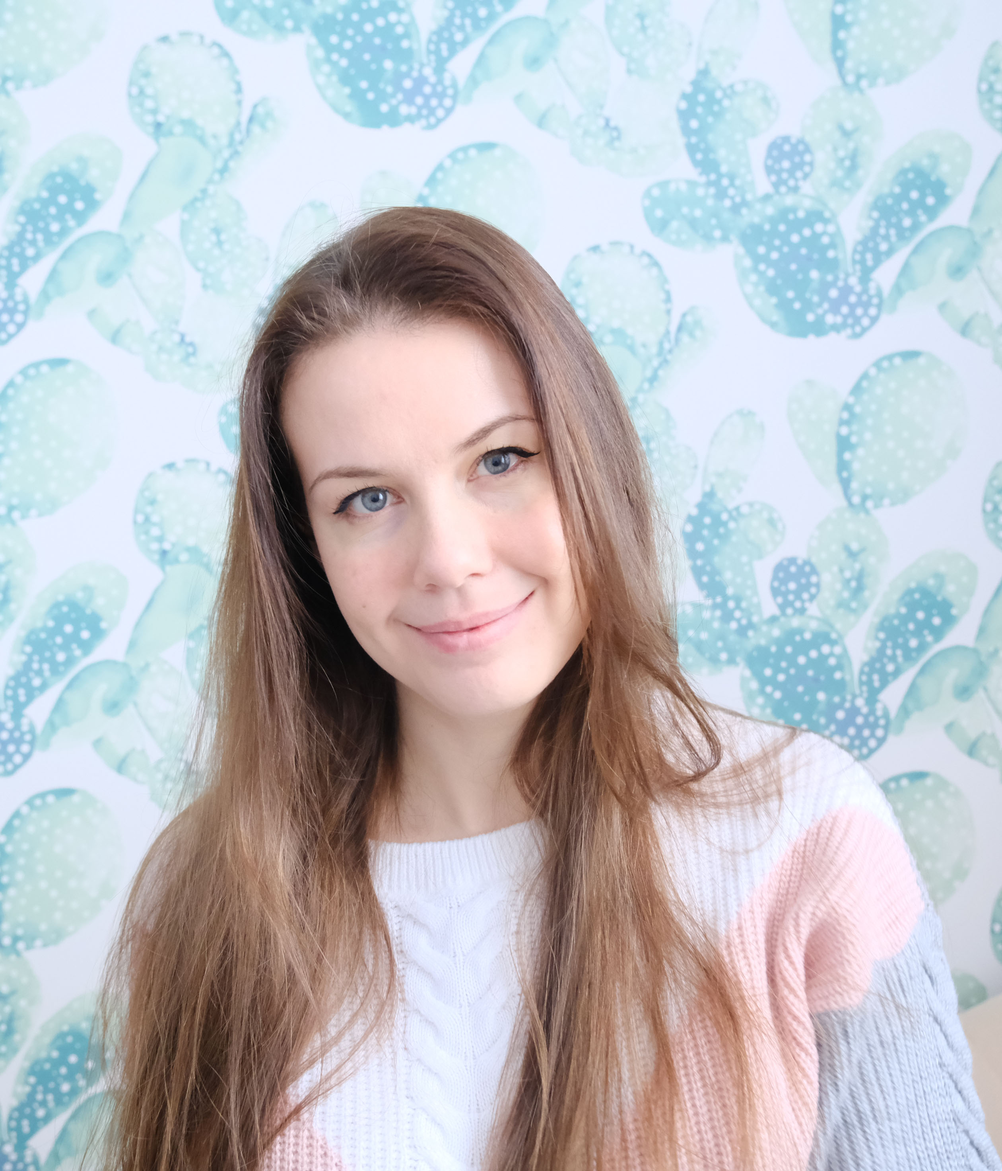
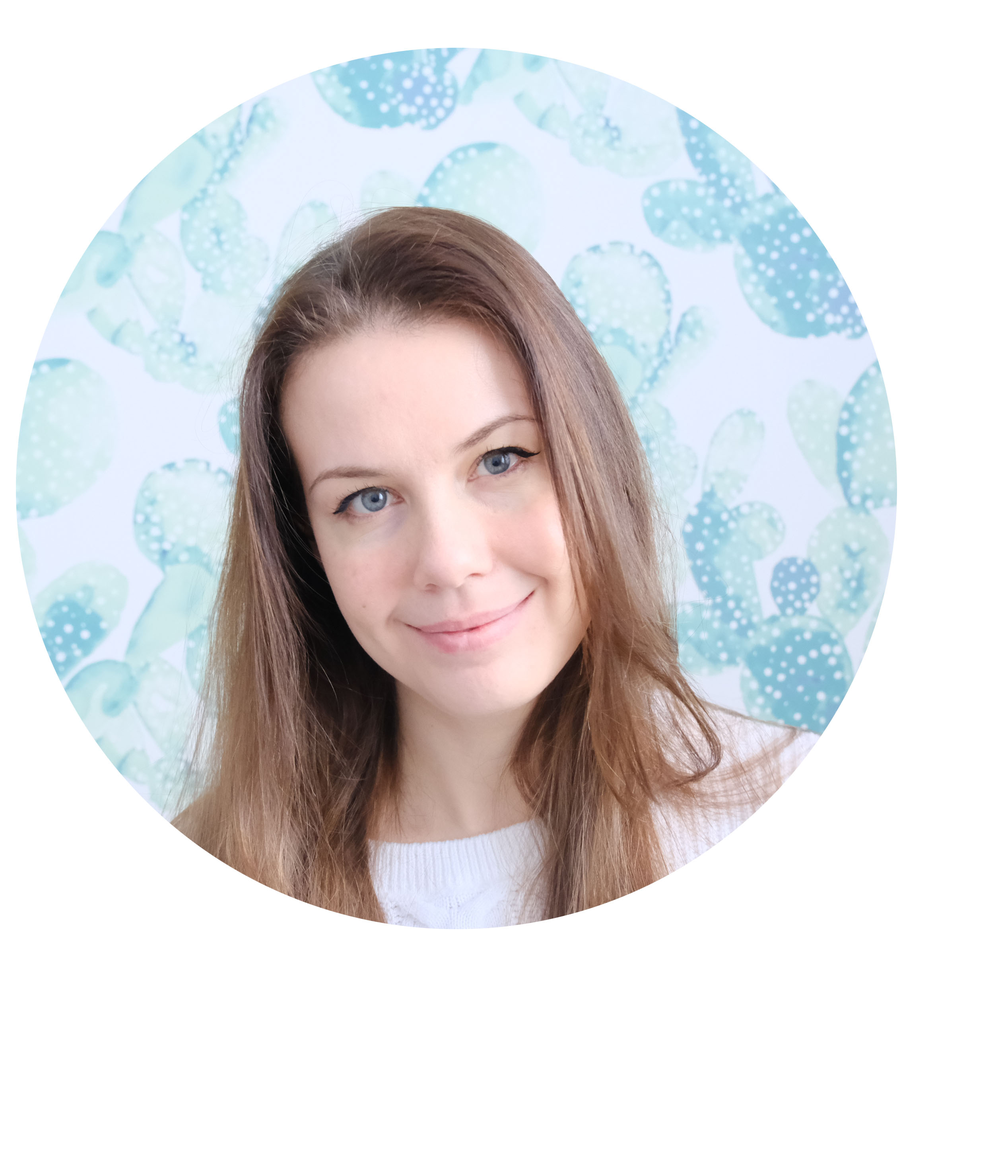
feat: add main information

diff --git a/index.html b/index.html
@@ -24,46 +24,91 @@
                   <li class="nav-item"><a href="#languages" class="nav-link">Languages</a></li>
                 </ul>
               </nav>
-            <img src="DSCF1903_c.jpg" alt="my_photo" width="200">
+            
         </div>
     </header>
 
-    <main class="main main-container">
-        <div class="container">
-            <section class="section" id="profile">
+    <main class="main">
+        <div class="container main-container">
+            <section class="section profile-section" id="profile">
                 <h1 class="section-title main-title">
                     Kate Lishynskaya
                 </h1>
             </section>
+            <section class="section photo" id="photo">
+                <img src="DSCF1903_c.jpg" alt="my_photo" width="200">
+            </section>
             <section class="section" id="contacts">
                 <h2 class="section-title">Contacts</h2>
+                <ul class="contact-list">
+                    <li class="contact-item">Minsk, Belarus (ready to relocate)</li>
+                    <li class="contact-item">Email: <a href="tekalishoo@gmail.com">tekalishoo@gmail.com</a></li>
+                    <li class="contact-item">LinkedIn: <a href="https://www.linkedin.com/in/ekaterina-lishynskaya-852376231/">Ekaterina Lishynskaya</a></li>
+                    <li class="contact-item">GitHub: <a href="https://github.com/TekaLishoo">TekaLishoo</a></li>
+                </ul>
             </section>
             <section class="section" id="summary">
                 <h2 class="section-title">Summary</h2>
+                <p class="p-summary">
+                    In process of profession changing. Passionate about coding. 
+                    Good at problem solving, critical thinking, communicative, 
+                    responsible, hardworking.
+                </p>
             </section>
             <section class="section" id="skills">
+                
                 <h2 class="section-title">Skills</h2>
+                <ul class="skills-list">
+                    <li>Python</li>
+                    <li>Git</li>
+                    <li>HTML</li>
+                    <li>JS</li>
+                </ul>
             </section>
             <section class="section" id="code">
                 <h2 class="section-title">Code example</h2>
+                <code><pre>
+ def most_money(students):
+     d ={}
+     for st in students:
+         d[st.name] = float(st.fives)*5 + float(st.tens)*10 + float(st.twenties)*20
+        if list(d.values()).count(sorted(list(d.values()))[-1]) > 1:
+            return r'all'
+        else:
+            for k,v in d.items():
+                if v == sorted(list(d.values()))[-1]:
+                    return k
+                                </pre></code>
             </section>
             <section class="section" id="courses">
                 <h2 class="section-title">Courses</h2>
+                <p>Core python (2021)</p>
+                <p>Python in examples (2022)</p>
             </section>
             <section class="section" id="projects">
                 <h2 class="section-title">My projects</h2>
+                <p><a href="https://github.com/TekaLishoo/MLCourse_Forest_Cover">Forest Cover Type</a></p>
             </section>
             <section class="section" id="education">
                 <h2 class="section-title">Education</h2>
+                <p>BSTU</p>
             </section>
             <section class="section" id="languages">
                 <h2 class="section-title">Languages</h2>
+                <p>English (B1)</p>
+                <p>Spanish (A2)</p>
             </section>
         </div>
     </main>
 
     <footer class="footer">
-        <div class="container"></div>
+        <div class="container footer-container">
+            <div>© 2022 
+                <a href="https://github.com/TekaLishoo">TekaLishoo</a>
+            </div>
+            
+            <a class="rs-im" href="https://rs.school/js/"></a>
+        </div>
     </footer>
 </body>
 </html>

diff --git a/style.css b/style.css
@@ -6,66 +6,81 @@ html {
     box-sizing: border-box;
   }
 
-  body {
-    display: flex;
-    flex-direction: column;
-    justify-content: space-between;
+body {
+  display: flex;
+  flex-direction: column;
+  justify-content: space-between;
   }
 
 
-  .container {
-    max-width: 1440px;
-    margin: 0 auto;
+.section {
+  width: 50%;
+}
+
+
+.nav-list {
+  display: flex;
+  justify-content: flex-end;
+  align-items: center;
+  list-style: none;
   }
 
 
-  .nav-list {
-    display: flex;
-    justify-content: flex-end;
-    align-items: center;
-    list-style: none;
-  }
+.nav-link {
+  padding: 0 20px;
+  line-height: 50px;
+  text-decoration: none;
+  color:bisque;
+  font-size: 20px;
+  transition: .3s;
+}
 
 
-  .nav-link {
-    padding: 0 20px;
-    line-height: 50px;
-    text-decoration: none;
-    color:bisque;
-    font-size: 20px;
-    transition: .3s;
-  }
+.nav {
+  background-color: rgb(23, 23, 32);
+  border-radius: 5px;
+}
 
 
-  .nav {
-      background-color: rgb(23, 23, 32);
-      border-radius: 5px;
-  }
+.nav-item a:hover {
+  color: #a33333;
+}
 
-
-  .nav-item a:hover {
-    color: #a33333;
-  }
-
-  .main-container {
-    display: flex;
-    flex-wrap: wrap;
-    justify-content: space-between;
-  }
+.main {
+  display: flex;
+  flex-wrap: wrap;
+  justify-content: space-around;
   
-  .section {
-    width: 40%;
-  }
+}
+  
+.footer {
+  background-color: rgb(23, 23, 32);
+  border-radius: 5px;
+  margin: 0px 200px;
+}
 
-  .main-title::after {
-    content: "";
-    position: absolute;
-    left: 50%;
-    margin-left: -70px;
-    width: 140px;
-    height: 10px;
-    background-color: aqua;
-  }
+.profile-section {
+  display: flex;
+  justify-content: space-between;
+}
+
+.main-title {
+  margin-top: 15%;
+  margin-left: 10%;
+  font-size: 42px;
+}
+
+
+.main-title::after {
+  content: "";
+  position: absolute;
+  top: 30%;
+  left: 25%;
+  margin-left: -70px;
+  width: 400px;
+  height: 10px;
+  background-color:bisque;
+}
 
   @media (max-width: 768px) {
     .section {
@@ -73,6 +88,46 @@ html {
     }
   }
 
+.container {
+  display: flex;
+  justify-content: space-around;
+}
 
 
+.main-container {
+  display: flex;
+  flex-wrap: wrap;
+  margin: 0 250px;
+  justify-content: space-around;
+}
 
+.photo {
+  padding-left: 200px;
+}
+
+.contact-list {
+  list-style: none;
+}
+
+
+.contact-item::before {
+  content: "";
+  top: 0px;
+  left: 0px;
+  width: 10px;
+  height: 5px; 
+  border: 2px solid bisque;
+  border-radius: 5px;
+}
+
+.skills-list {
+  list-style: none;
+}
+
+.rs-im {
+  width: 121px;
+  height: 45px;
+  background-image: url("rs_school_js.svg");
+  background-size: contain;
+  background-repeat: no-repeat;
+}
